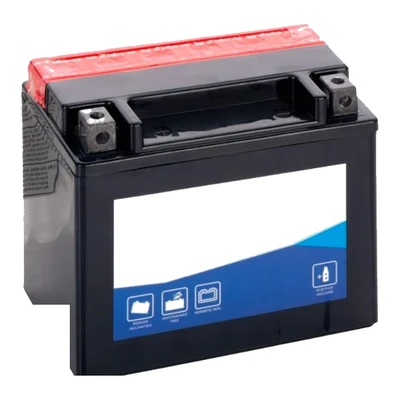
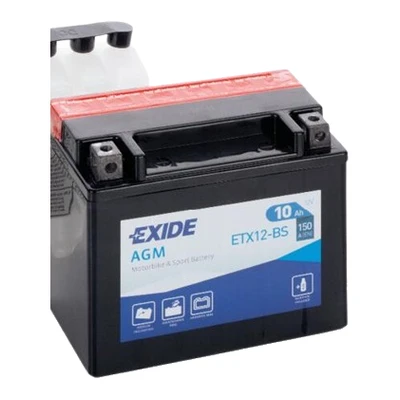
EXIDE : remplace photos (EC700, EK820, EB356A, ETX14AHL, ETX9C, ETX20HL, ETX12) + EL1000 pour L5 100Ah EFB (dernier placeholder)

diff --git a/src/data/catalogue.js b/src/data/catalogue.js
@@ -77,7 +77,7 @@ export const vehicles = [
       { id: 'vo1', brand: 'VOLTAGE', model: 'L1 46Ah', ah: 46, v: 12, cca: 400, dim: '207 × 175 × 175 mm', price: 600, fits: 'Citadines · L1', photo: '/batteries/catvo1.webp' },
       { id: 'vol0', brand: 'VOLTAGE', model: 'L0 35Ah', ah: 35, v: 12, cca: 280, dim: '175 × 175 × 190 mm', price: 900, fits: 'Petites voitures · L0', photo: '/batteries/vol0.webp' },
       // EXIDE — batteries voiture (démarrage). Prix réels ; photos à venir (placeholder).
-      { id: 'exc1', brand: 'EXIDE', model: 'E1 35Ah — Excell EB350A (asiatique)', ah: 35, v: 12, cca: 240, dim: '187 × 127 × 227 mm', price: 700, fits: 'Petite voiture (NS40) · E1', photo: '/batteries/exc_eb350.webp' },
+      { id: 'exc1', brand: 'EXIDE', model: 'E1 35Ah — Excell EB356A (asiatique)', ah: 35, v: 12, cca: 240, dim: '187 × 127 × 227 mm', price: 700, fits: 'Petite voiture (NS40) · E1', photo: '/batteries/exc_eb350.webp' },
       { id: 'exc2', brand: 'EXIDE', model: 'L1 44Ah — Excell EB442', ah: 44, v: 12, cca: 420, dim: '207 × 175 × 175 mm', price: 700, fits: 'Citadine · L1', photo: '/batteries/exc_eb442.webp' },
       { id: 'exc3', brand: 'EXIDE', model: 'L1 44Ah — Classic EC440', ah: 44, v: 12, cca: 360, dim: '207 × 175 × 175 mm', price: 750, fits: 'Citadine · L1', photo: '/batteries/exc_ec440.webp' },
       { id: 'exc4', brand: 'EXIDE', model: 'E2 45Ah — Excell EB460', ah: 45, v: 12, cca: 330, dim: '232 × 173 × 225 mm', price: 800, fits: 'Berline asiatique · E2', photo: '/batteries/exc_eb460.webp' },
@@ -98,7 +98,7 @@ export const vehicles = [
       { id: 'exc19', brand: 'EXIDE', model: 'L3 70Ah — AGM EK720', ah: 70, v: 12, cca: 760, dim: '278 × 175 × 175 mm', price: 1800, fits: 'Berline · L3 · AGM start-stop', photo: '/batteries/exc_ek720.webp' },
       { id: 'exc20', brand: 'EXIDE', model: 'L4 80Ah — EFB EL800', ah: 80, v: 12, cca: 720, dim: '315 × 175 × 175 mm', price: 1500, fits: 'Break, SUV · L4 · EFB start-stop', photo: '/batteries/exc_el800.webp' },
       { id: 'exc21', brand: 'EXIDE', model: 'L4 80Ah — AGM EK820', ah: 80, v: 12, cca: 720, dim: '315 × 175 × 175 mm', price: 2100, fits: 'Break, SUV · L4 · AGM start-stop', photo: '/batteries/exc_ek820.webp' },
-      { id: 'exc22', brand: 'EXIDE', model: 'L5 100Ah EFB', ah: 100, v: 12, cca: 900, dim: '353 × 175 × 175 mm', price: 1400, fits: 'Grosse cylindrée · L5 · EFB start-stop', photo: '/batteries/exide_placeholder.webp' },
+      { id: 'exc22', brand: 'EXIDE', model: 'L5 100Ah — EFB EL1000', ah: 100, v: 12, cca: 900, dim: '353 × 175 × 175 mm', price: 1400, fits: 'Grosse cylindrée · L5 · EFB start-stop', photo: '/batteries/exc_el1000.webp' },
       { id: 'exc23', brand: 'EXIDE', model: 'L5 95Ah — AGM EK950', ah: 95, v: 12, cca: 850, dim: '353 × 175 × 175 mm', price: 2400, fits: 'Grosse cylindrée · L5 · AGM start-stop', photo: '/batteries/exc_ek950.webp' },
       // ENERGIZER
       { id: 'e3', brand: 'ENERGIZER', model: 'Premium AGM EA95 L5', ah: 95, v: 12, cca: 850, dim: '353 × 175 × 190 mm', price: 2800, fits: 'Start-Stop AGM · L5', photo: '/batteries/cate3.webp' },
@@ -179,7 +179,7 @@ export const vehicles = [
       // EXIDE — série ETX (AGM Powersports). Réf. croisées AGM 12-X / ETX##-BS / YTX##.
       { id: 'exetx20hl', brand: 'EXIDE', model: 'ETX20HL-BS AGM', ah: 18, v: 12, cca: 270, dim: '175 × 87 × 155 mm', price: 1200, fits: 'YTX20HL — gros custom, Harley, quad (AGM)', photo: '/batteries/exetx20hln.webp' },
       { id: 'exetx16', brand: 'EXIDE', model: 'ETX16 AGM', ah: 16, v: 12, cca: 170, dim: '175 × 87 × 155 mm', price: 1200, fits: 'YTX16 / AGM 12-16 — moto, jet-ski (AGM)', photo: '/batteries/exagm16.webp' },
-      { id: 'exetx14', brand: 'EXIDE', model: 'ETX14-BS AGM', ah: 12, v: 12, cca: 200, dim: '150 × 87 × 145 mm', price: 900, fits: 'YTX14 — moto, quad (AGM)', photo: '/batteries/exetx14n.webp' },
+      { id: 'exetx14', brand: 'EXIDE', model: 'ETX14AHL-BS AGM', ah: 12, v: 12, cca: 200, dim: '150 × 87 × 145 mm', price: 900, fits: 'YTX14 — moto, quad (AGM)', photo: '/batteries/exetx14n.webp' },
       { id: 'exetx12', brand: 'EXIDE', model: 'ETX12-BS AGM', ah: 10, v: 12, cca: 180, dim: '150 × 87 × 130 mm', price: 800, fits: 'YTX12 — moto route (AGM)', photo: '/batteries/exetx12n.webp' },
       { id: 'exetx9', brand: 'EXIDE', model: 'ETX9-BS AGM', ah: 8, v: 12, cca: 120, dim: '150 × 87 × 105 mm', price: 450, fits: 'YTX9-BS — moto, scooter (AGM)', photo: '/batteries/exetx9n.webp' },
       { id: 'exetx7a', brand: 'EXIDE', model: 'ETX7A-BS AGM', ah: 6.3, v: 12, cca: 105, dim: '150 × 87 × 94 mm', price: 380, fits: 'YTX7A — scooter 125, moto (AGM)', photo: '/batteries/exetx7a.webp' },
